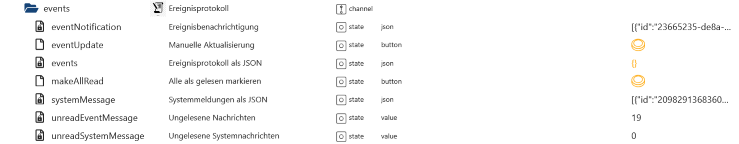
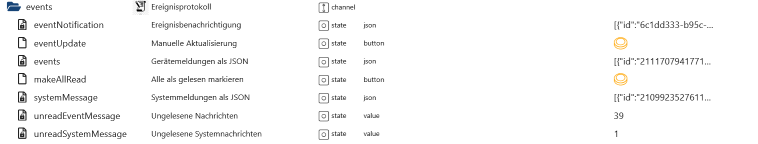
Event log has been changed to message log

diff --git a/lib/sunseeker/devices.js b/lib/sunseeker/devices.js
@@ -402,7 +402,12 @@ module.exports = {
      * @param {number} size
      */
     async getEvents(sn, current, size) {
-        let apiPath = `/app_wireless_mower/work_record/page?sn=${sn}&current=${current}&size=${size}`;
+        const dev = this.devicesRaw[sn];
+        if (!dev) {
+            return;
+        }
+        //let apiPath = `/app_wireless_mower/work_record/page?sn=${sn}&current=${current}&size=${size}`;
+        let apiPath = `/app_wireless_mower/message-send-logs/page/${String(dev.appUserId || this.session.user_id)}?ascFlag=false&current=${current}&size=${size}&sn=${sn}&sort=createdAt&type=2`;
         const { json } = await this.request("GET", apiPath, {
             "Content-Type": "application/json",
             ...this.authHeaders(),
@@ -410,21 +415,21 @@ module.exports = {
         if (json && json.data && json.data.records && Array.isArray(json.data.records)) {
             this.log.debug(`Device work records: ${JSON.stringify(json.data.records)}`);
             this.emit("event", { sn, data: json.data });
-            if (this.eventCodes) {
-                for (const r of json.data.records) {
-                    if (r.startReason != null) {
-                        r.startReason = this.eventCodes[r.startReason];
-                    }
-                    if (r.endReason != null) {
-                        r.endReason = this.eventCodes[r.endReason];
-                    }
-                }
-                if (this.standalone) {
-                    await this.iob.setState(`${this.iob.namespace}.${sn}.events.events`, {
-                        val: JSON.stringify(json.data.records),
-                        ack: true,
-                    });
-                }
+            //if (this.eventCodes) {
+            //    for (const r of json.data.records) {
+            //        if (r.startReason != null) {
+            //            r.startReason = this.eventCodes[r.startReason];
+            //        }
+            //        if (r.endReason != null) {
+            //            r.endReason = this.eventCodes[r.endReason];
+            //        }
+            //    }
+            //}
+            if (this.standalone) {
+                await this.iob.setState(`${this.iob.namespace}.${sn}.events.events`, {
+                    val: JSON.stringify(json.data.records),
+                    ack: true,
+                });
             }
         } else {
             try {

diff --git a/main.js b/main.js
@@ -1083,17 +1083,17 @@ class SunseekerAdapter extends utils.Adapter {
             this.createObjectDone[path] = true;
             common = {
                 name: {
-                    en: "Event log as JSON",
-                    de: "Ereignisprotokoll als JSON",
-                    ru: "Журнал событий в формате JSON",
-                    pt: "Registro de eventos em formato JSON",
-                    nl: "Gebeurtenislogboek als JSON",
-                    fr: "Journal des événements au format JSON",
-                    it: "Registro eventi in formato JSON",
-                    es: "Registro de eventos como JSON",
-                    pl: "Dziennik zdarzeń jako JSON",
-                    uk: "Журнал подій у форматі JSON",
-                    "zh-cn": "事件日志（JSON格式）",
+                    en: "Device Messages as JSON",
+                    de: "Gerätemeldungen als JSON",
+                    ru: "Сообщения устройства в формате JSON",
+                    pt: "Device Messages como JSON",
+                    nl: "Apparaatberichten als JSON",
+                    fr: "Messages de l'appareil au format JSON",
+                    it: "Messaggi in JSON",
+                    es: "Device Messages as JSON",
+                    pl: "Wiadomości urządzenia jako JSON",
+                    uk: "Повідомлення пристрою як JSON",
+                    "zh-cn": "以 JSON 格式发送设备消息",
                 },
                 type: "string",
                 role: "json",

diff --git a/docs/en/README.md b/docs/en/README.md
@@ -127,7 +127,7 @@ If any settings are missing, please open an issue or ask in the forum.
 | ------------------------------ | -------------------------------- |
 | xxx.events.eventNotification   | Event notification               |
 | xxx.events.eventUpdate         | Reload all events                |
-| xxx.events.events              | Daily events                     |
+| xxx.events.events              | Device Messages as JSON          |
 | xxx.events.makeAllRead         | Mark all events as 'read'        |
 | xxx.events.systemMessage       | System messages                  |
 | xxx.events.unreadEventMessage  | Number of unread events          |
@@ -194,67 +194,52 @@ If any settings are missing, please open an issue or ask in the forum.
 ```json
 [
     {
-        "id": "2087778142705917953",
-        "start": "1786598551",
-        "end": "1786600074",
-        "time": 1523,
-        "area": 49,
-        "normalDone": true,
-        "url": "https://minio.sk-robot.com/work-record/xxx_1786598551_1786600074_record.gz",
-        "sn": "xxx",
-        "subMode": 0,
-        "startReason": "Das Gerät wird neu gestartet",
-        "endReason": "Arbeit abgeschlossen. Rückkehr zur Ladestation.",
-        "timeZoneId": "",
-        "workProcessInfos": null,
-        "taskType": 3,
-        "oneshotTaskType": 0,
-        "firmwareVersion": "1.1.23.2938",
-        "targetRegions": null,
-        "workOrder": null,
-        "workProcessInfoPage": null
+        "id": "2114652384020443001",
+        "appUserId": null,
+        "title": "Robot update successful",
+        "content": "xxx:Robot update successful.",
+        "readFlag": false,
+        "createdAt": "2026-10-26 09:36:31",
+        "messageTypeCode": "otaSuccess",
+        "feedbackContent": null,
+        "sendAt": "1793007391",
+        "type": 2,
+        "sn": null,
+        "userDelFlag": false,
+        "messageCode": null,
+        "nrtkBase": null
     },
     {
-        "id": "2087597114861350914",
-        "start": "1786555135",
-        "end": "1786556912",
-        "time": 1775,
-        "area": 48,
-        "normalDone": true,
-        "url": "https://minio.sk-robot.com/work-record/xxx_1786555135_1786556912_record.gz",
-        "sn": "123",
-        "subMode": 0,
-        "startReason": "Das Gerät wird neu gestartet",
-        "endReason": "Arbeit abgeschlossen. Rückkehr zur Ladestation.",
-        "timeZoneId": "",
-        "workProcessInfos": null,
-        "taskType": 3,
-        "oneshotTaskType": 0,
-        "firmwareVersion": "1.1.23.2938",
-        "targetRegions": null,
-        "workOrder": null,
-        "workProcessInfoPage": null
+        "id": "2114333791798816000",
+        "appUserId": null,
+        "title": "Robot lifted",
+        "content": "xxx:Click to view the solution.",
+        "readFlag": false,
+        "createdAt": "2026-10-25 12:30:33",
+        "messageTypeCode": "deviceExceptionMessage",
+        "feedbackContent": null,
+        "sendAt": "1792931433",
+        "type": 2,
+        "sn": "null",
+        "userDelFlag": false,
+        "messageCode": "-1",
+        "nrtkBase": 0
     },
     {
-        "id": "2087455142109900802",
-        "start": "1786521294",
-        "end": "1786523062",
-        "time": 1765,
-        "area": 48,
-        "normalDone": true,
-        "url": "https://minio.sk-robot.com/work-record/xxx_1786521294_1786523062_record.gz",
-        "sn": "1223",
-        "subMode": 0,
-        "startReason": "Das Gerät wird neu gestartet",
-        "endReason": "Arbeit abgeschlossen. Rückkehr zur Ladestation.",
-        "timeZoneId": "",
-        "workProcessInfos": null,
-        "taskType": 3,
-        "oneshotTaskType": 0,
-        "firmwareVersion": "1.1.23.2938",
-        "targetRegions": null,
-        "workOrder": null,
-        "workProcessInfoPage": null
+        "id": "2114333789689335002",
+        "appUserId": null,
+        "title": "Robot lifted",
+        "content": "xxx:Click to view the solution.",
+        "readFlag": false,
+        "createdAt": "2026-10-25 12:30:32",
+        "messageTypeCode": "deviceExceptionMessage",
+        "feedbackContent": null,
+        "sendAt": "1792931432",
+        "type": 2,
+        "sn": "null",
+        "userDelFlag": false,
+        "messageCode": "-1",
+        "nrtkBase": 0
     }
 ]
 ```

diff --git a/docs/de/README.md b/docs/de/README.md
@@ -127,7 +127,7 @@ Wenn Einstellungen fehlen, dann bitte ein Issue anlegen oder im Forum anfragen.
 | ------------------------------ | ------------------------------------ |
 | xxx.events.eventNotification   | Ereignisbenachrichtigung             |
 | xxx.events.eventUpdate         | Alle Events neu laden                |
-| xxx.events.events              | Tägliche Event                       |
+| xxx.events.events              | Gerätemeldungen als JSON             |
 | xxx.events.makeAllRead         | Alle Events als `gelesen` markieren  |
 | xxx.events.systemMessage       | Systemnachrichten                    |
 | xxx.events.unreadEventMessage  | Anzahl ungelesene Events             |
@@ -193,69 +193,55 @@ Wenn Einstellungen fehlen, dann bitte ein Issue anlegen oder im Forum anfragen.
 
 ```json
 [
-    {
-        "id": "2087778142705917953",
-        "start": "1786598551",
-        "end": "1786600074",
-        "time": 1523,
-        "area": 49,
-        "normalDone": true,
-        "url": "https://minio.sk-robot.com/work-record/xxx_1786598551_1786600074_record.gz",
-        "sn": "xxx",
-        "subMode": 0,
-        "startReason": "Das Gerät wird neu gestartet",
-        "endReason": "Arbeit abgeschlossen. Rückkehr zur Ladestation.",
-        "timeZoneId": "",
-        "workProcessInfos": null,
-        "taskType": 3,
-        "oneshotTaskType": 0,
-        "firmwareVersion": "1.1.23.2938",
-        "targetRegions": null,
-        "workOrder": null,
-        "workProcessInfoPage": null
-    },
-    {
-        "id": "2087597114861350914",
-        "start": "1786555135",
-        "end": "1786556912",
-        "time": 1775,
-        "area": 48,
-        "normalDone": true,
-        "url": "https://minio.sk-robot.com/work-record/xxx_1786555135_1786556912_record.gz",
-        "sn": "123",
-        "subMode": 0,
-        "startReason": "Das Gerät wird neu gestartet",
-        "endReason": "Arbeit abgeschlossen. Rückkehr zur Ladestation.",
-        "timeZoneId": "",
-        "workProcessInfos": null,
-        "taskType": 3,
-        "oneshotTaskType": 0,
-        "firmwareVersion": "1.1.23.2938",
-        "targetRegions": null,
-        "workOrder": null,
-        "workProcessInfoPage": null
-    },
-    {
-        "id": "2087455142109900802",
-        "start": "1786521294",
-        "end": "1786523062",
-        "time": 1765,
-        "area": 48,
-        "normalDone": true,
-        "url": "https://minio.sk-robot.com/work-record/xxx_1786521294_1786523062_record.gz",
-        "sn": "1223",
-        "subMode": 0,
-        "startReason": "Das Gerät wird neu gestartet",
-        "endReason": "Arbeit abgeschlossen. Rückkehr zur Ladestation.",
-        "timeZoneId": "",
-        "workProcessInfos": null,
-        "taskType": 3,
-        "oneshotTaskType": 0,
-        "firmwareVersion": "1.1.23.2938",
-        "targetRegions": null,
-        "workOrder": null,
-        "workProcessInfoPage": null
-    }
+[
+  {
+    "id": "2114652384020443001",
+    "appUserId": null,
+    "title": "Robot update successful",
+    "content": "xxx:Robot update successful.",
+    "readFlag": false,
+    "createdAt": "2026-10-26 09:36:31",
+    "messageTypeCode": "otaSuccess",
+    "feedbackContent": null,
+    "sendAt": "1793007391",
+    "type": 2,
+    "sn": null,
+    "userDelFlag": false,
+    "messageCode": null,
+    "nrtkBase": null
+  },
+  {
+    "id": "2114333791798816000",
+    "appUserId": null,
+    "title": "Robot lifted",
+    "content": "xxx:Click to view the solution.",
+    "readFlag": false,
+    "createdAt": "2026-10-25 12:30:33",
+    "messageTypeCode": "deviceExceptionMessage",
+    "feedbackContent": null,
+    "sendAt": "1792931433",
+    "type": 2,
+    "sn": "null",
+    "userDelFlag": false,
+    "messageCode": "-1",
+    "nrtkBase": 0
+  },
+  {
+    "id": "2114333789689335002",
+    "appUserId": null,
+    "title": "Robot lifted",
+    "content": "xxx:Click to view the solution.",
+    "readFlag": false,
+    "createdAt": "2026-10-25 12:30:32",
+    "messageTypeCode": "deviceExceptionMessage",
+    "feedbackContent": null,
+    "sendAt": "1792931432",
+    "type": 2,
+    "sn": "null",
+    "userDelFlag": false,
+    "messageCode": "-1",
+    "nrtkBase": 0
+  },
 ]
 ```
 
